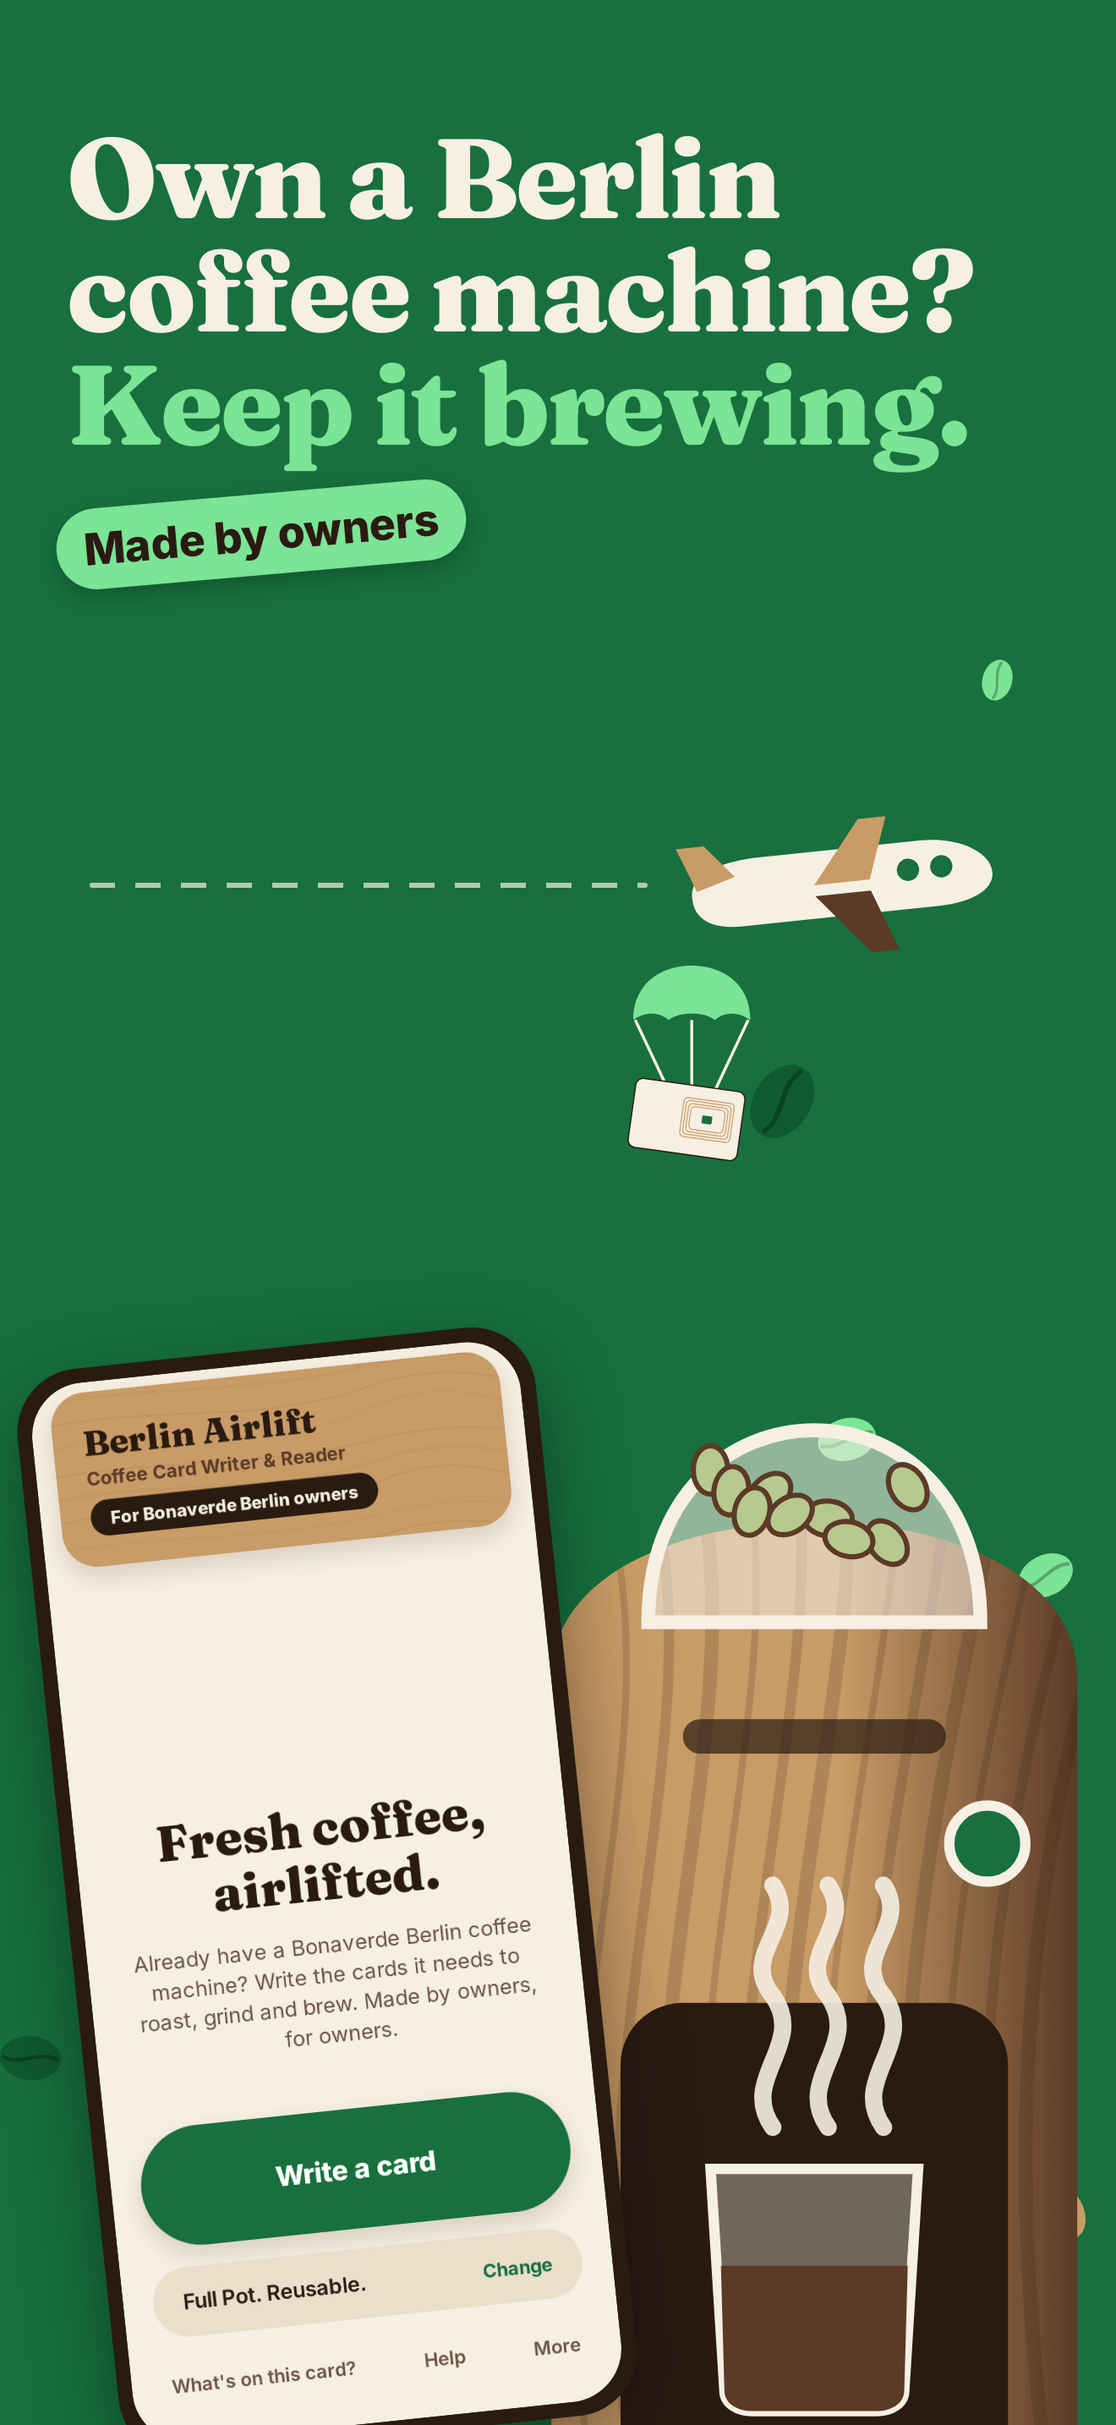
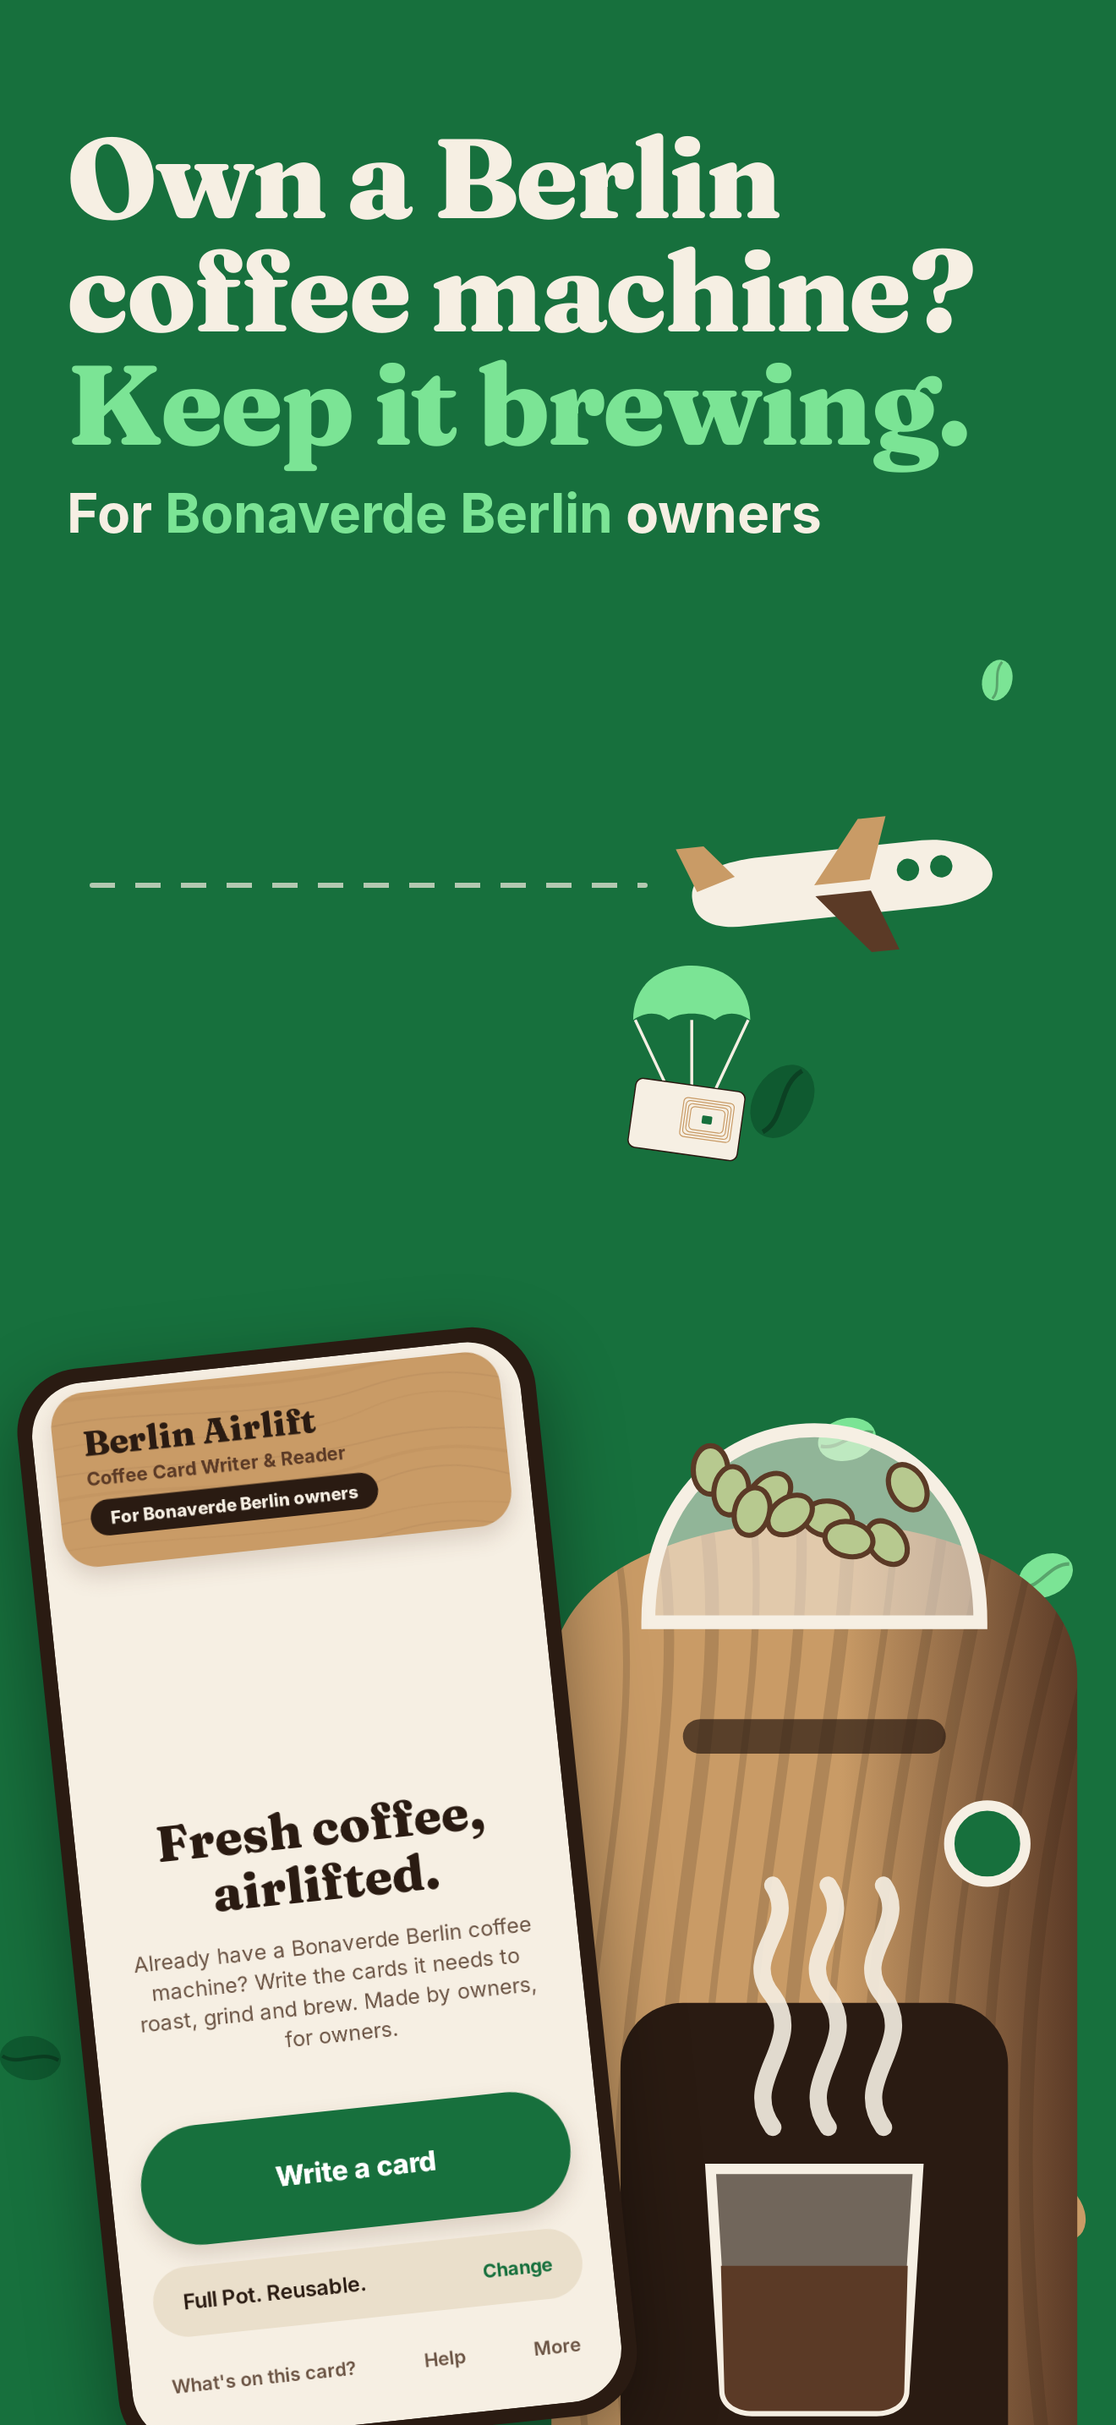
Store frames: brand under frame 1 headline, card frame sells the payoff; which-card picture in Help
Frame 1 keeps the headline brand-free and names Bonaverde Berlin on a smaller line under it.
Frame 4 is now buy a card online, program it, ready to use. The which-card visual with its
works and won't-work list moves into the app's Help sheet.

Changed region(s): [[0.0311, 0.1862, 0.7455, 0.2483]]

diff --git a/app/src/ui/WhichCard.tsx b/app/src/ui/WhichCard.tsx
@@ -1,0 +1,68 @@
+import React from 'react';
+import { StyleSheet, Text, View } from 'react-native';
+import Svg, { Rect } from 'react-native-svg';
+import { CARD_TO_BUY } from '../content/help';
+import { color, radius, space } from './tokens';
+
+/** The card's antenna coil, drawn small on the right of the card. */
+function Coil() {
+  return (
+    <Svg width={84} height={84} viewBox="0 0 84 84" accessibilityElementsHidden importantForAccessibility="no-hide-descendants">
+      {[0, 1, 2, 3].map((i) => (
+        <Rect key={i} x={4 + i * 9} y={4 + i * 9} width={76 - i * 18} height={76 - i * 18} rx={12} fill="none" stroke={color.oak} strokeWidth={3} />
+      ))}
+    </Svg>
+  );
+}
+
+const ROWS: { ok: boolean; label: string }[] = [
+  { ok: true, label: CARD_TO_BUY.name },
+  { ok: false, label: 'NTAG cards' },
+  { ok: false, label: 'MIFARE Classic' },
+  { ok: false, label: 'A plain "NFC card"' },
+];
+
+/** The card to buy, drawn as a card, with a quick yes and no list under it. */
+export function WhichCard() {
+  return (
+    <View style={styles.wrap}>
+      <View style={styles.card} accessible accessibilityLabel={`The card to buy: ${CARD_TO_BUY.name}, chip ${CARD_TO_BUY.part}, 13.56 megahertz.`}>
+        <View style={{ flex: 1, gap: 2 }}>
+          <Text style={styles.label}>The one to buy</Text>
+          <Text style={styles.big}>MIFARE</Text>
+          <Text style={styles.mid}>Ultralight EV1</Text>
+          <Text style={styles.small}>{CARD_TO_BUY.part} · 13.56 MHz</Text>
+        </View>
+        <Coil />
+      </View>
+      <View style={styles.rows}>
+        {ROWS.map((r) => (
+          <View key={r.label} style={styles.row} accessible accessibilityLabel={`${r.ok ? 'Works' : 'Will not work'}: ${r.label}`}>
+            <View style={[styles.mark, { backgroundColor: r.ok ? color.verde : color.ember }]}>
+              <Text style={styles.markText}>{r.ok ? '✓' : '✕'}</Text>
+            </View>
+            <Text style={styles.rowText}>{r.label}</Text>
+          </View>
+        ))}
+      </View>
+    </View>
+  );
+}
+
+const styles = StyleSheet.create({
+  wrap: { gap: space.m },
+  card: {
+    flexDirection: 'row', alignItems: 'center', gap: space.m,
+    backgroundColor: color.cream, borderRadius: radius.chip, borderWidth: 3, borderColor: color.espresso,
+    padding: space.m, transform: [{ rotate: '-2deg' }],
+  },
+  label: { fontSize: 13, fontWeight: '800', color: color.verde, textTransform: 'uppercase', letterSpacing: 0.8 },
+  big: { fontFamily: 'Fraunces_800ExtraBold', fontSize: 30, lineHeight: 32, color: color.espresso },
+  mid: { fontFamily: 'Fraunces_800ExtraBold', fontSize: 22, lineHeight: 26, color: color.espresso },
+  small: { fontSize: 13, fontWeight: '700', color: color.walnut },
+  rows: { gap: space.s },
+  row: { flexDirection: 'row', alignItems: 'center', gap: space.s },
+  mark: { width: 26, height: 26, borderRadius: 13, alignItems: 'center', justifyContent: 'center' },
+  markText: { color: color.cream, fontWeight: '800', fontSize: 15 },
+  rowText: { fontSize: 16, fontWeight: '700', color: color.espresso, flexShrink: 1 },
+});

diff --git a/app/src/screens/HelpSheet.tsx b/app/src/screens/HelpSheet.tsx
@@ -5,6 +5,7 @@ import { PressScale } from '../ui/Pressable';
 import { Sheet } from '../ui/Sheet';
 import { color, radius, space, type } from '../ui/tokens';
 import { TRADEMARK_NOTICE } from '../content/about';
+import { WhichCard } from '../ui/WhichCard';
 
 /** Plain answers, most-asked first. The card to buy is pinned at the top. */
 export function HelpSheet({ visible, onClose }: { visible: boolean; onClose: () => void }) {
@@ -12,10 +13,9 @@ export function HelpSheet({ visible, onClose }: { visible: boolean; onClose: () 
   return (
     <Sheet visible={visible} title="Help" onClose={onClose}>
       <View style={styles.buy}>
-        <Text style={styles.buyLabel}>The card to buy</Text>
-        <Text style={type.title}>{CARD_TO_BUY.name}</Text>
-        <Text style={type.secondary}>Chip {CARD_TO_BUY.part}. 13.56 MHz. 48 bytes of memory.</Text>
-        <Text style={[type.body, { marginTop: space.s }]}>Search for “{CARD_TO_BUY.search[0]}”.</Text>
+        <WhichCard />
+        <Text style={[type.secondary, { marginTop: space.s }]}>Chip {CARD_TO_BUY.part}. 13.56 MHz. 48 bytes of memory.</Text>
+        <Text style={type.body}>Search for “{CARD_TO_BUY.search[0]}”.</Text>
       </View>
 
       {HELP.map((t, i) => {
@@ -50,7 +50,6 @@ export function HelpSheet({ visible, onClose }: { visible: boolean; onClose: () 
 
 const styles = StyleSheet.create({
   buy: { backgroundColor: color.paper, borderRadius: radius.card, padding: space.l, gap: space.xs, marginBottom: space.m, borderLeftWidth: 6, borderLeftColor: color.verde },
-  buyLabel: { fontSize: 13, fontWeight: '700', color: color.verde, textTransform: 'uppercase', letterSpacing: 0.8 },
   item: { borderBottomWidth: StyleSheet.hairlineWidth, borderBottomColor: color.oak },
   q: { minHeight: 56, flexDirection: 'row', alignItems: 'center', justifyContent: 'space-between', gap: space.m },
   qText: { fontSize: 17, fontWeight: '700', color: color.espresso, flexShrink: 1 },

diff --git a/app/src/screens/__tests__/help.test.tsx b/app/src/screens/__tests__/help.test.tsx
@@ -13,6 +13,8 @@ it('names the exact card to buy and the look-alikes to avoid', async () => {
   );
   expect(screen.getByText('MIFARE Ultralight EV1')).toBeTruthy();
   expect(screen.getByText(/Chip MF0UL11/)).toBeTruthy();
+  expect(screen.getByLabelText('Works: MIFARE Ultralight EV1')).toBeTruthy();
+  expect(screen.getByLabelText('Will not work: NTAG cards')).toBeTruthy();
   await fireEvent.press(screen.getByText('Which cards look right but are wrong?'));
   expect(screen.getByText(/NTAG213, NTAG215, NTAG216/)).toBeTruthy();
   expect(screen.getByText(/MIFARE Classic 1K/)).toBeTruthy();

diff --git a/tools/store-screenshots/compose.py b/tools/store-screenshots/compose.py
@@ -1,16 +1,15 @@
 """Store frames, round 2: one owner job per frame, each with its own layout.
 
-python3 -I compose.py <work dir with cap/> <fraunces font dir> <out dir> [--variant-b]
+python3 -I compose.py <work dir with cap/> <fraunces font dir> <out dir>
 
-Frame 1 has two headline variants. A names no brand ("Own a Berlin coffee machine?").
-B names the machine in full ("Own a Bonaverde Berlin?"), which is clearer in search but
-puts a third-party brand in the image. The default render is A; --variant-b writes B too.
+Frame 1 names the machine in full ("For Bonaverde Berlin owners") on a line under the
+headline, never in the headline itself, so searchers know who it is for without a
+third-party brand taking over the image.
 """
 import sys, asyncio, random
 from playwright.async_api import async_playwright
 
 S, F, OUT = sys.argv[1], sys.argv[2], sys.argv[3]
-VARIANT_B = '--variant-b' in sys.argv
 C = S + '/cap/'
 VERDE, DEEP, POP, CREAM, PAPER, OAK, WALNUT, ESP, NIGHT, GREY = '#17703D', '#0F5A30', '#7BE495', '#F6EFE3', '#EADFCB', '#C99B66', '#5B3A26', '#2A1B12', '#0B2A1C', '#8C8A86'
 
@@ -52,6 +51,11 @@ CHUTE = f'''<svg viewBox="0 0 64 70"><path d="M4 28 C 4 10, 18 2, 32 2 C 46 2, 6
 CHERRIES = ''.join(f'<circle cx="{x}" cy="{y}" r="{r}" fill="{c}"/>' for x, y, r, c in [(60, 150, 22, '#B3261E'), (98, 140, 20, '#C9412F'), (80, 182, 21, '#8E1B16'), (196, 92, 18, '#B3261E'), (226, 70, 19, POP), (250, 96, 17, '#9BD77A')])
 BRANCH = f'''<svg viewBox="0 0 300 220"><path d="M10 200 C 80 160, 160 140, 290 40" stroke="{WALNUT}" stroke-width="8" fill="none" stroke-linecap="round"/>
 <path d="M150 130 C 170 190, 240 200, 270 170 C 240 140, 190 120, 150 130 Z" fill="{VERDE}"/><path d="M120 150 C 100 100, 40 70, 10 90 C 40 130, 80 155, 120 150 Z" fill="{DEEP}"/>{CHERRIES}</svg>'''
+
+BOX = f'''<svg viewBox="0 0 260 220"><path d="M20 70 L130 100 L240 70 L240 190 L130 218 L20 190 Z" fill="#B98A57"/>
+<path d="M130 100 L240 70 L240 190 L130 218 Z" fill="#A3774A"/><path d="M20 70 L130 100 L130 218 L20 190 Z" fill="#C99B66"/>
+<path d="M20 70 L-4 34 L104 62 L130 100 Z" fill="#D9B485"/><path d="M240 70 L264 34 L156 62 L130 100 Z" fill="#B98A57"/>
+<rect x="44" y="120" width="62" height="14" rx="3" fill="{CREAM}" opacity=".85" transform="rotate(14 75 127)"/></svg>'''
 
 def bean(x, y, s, r, c):
     return f'<svg class="bean" style="left:{x}px;top:{y}px;width:{s}px;height:{s*1.35}px;transform:rotate({r}deg)" viewBox="0 0 40 54"><ellipse cx="20" cy="27" rx="18" ry="25" fill="{c}"/><path d="M20 4 C 12 18, 28 34, 20 50" stroke="rgba(0,0,0,.28)" stroke-width="3" fill="none"/></svg>'
@@ -104,11 +108,11 @@ def beans(rnd, W, H, n, cols, y0=0.0, y1=1.0, u=1.0):
 
 # ---------- the eight jobs ----------
 
-def f1_owner(W, H, b=False):
+def f1_owner(W, H):
     """Job: 'I own this machine, will this keep it going?' Airdrop onto the machine."""
     u, tall = W / 1320, H / W > 2
     rnd = random.Random(1)
-    l1, l2 = ('Own a Bonaverde', 'Berlin?') if b else ('Own a Berlin', 'coffee machine?')
+    l1, l2 = ('Own a Berlin', 'coffee machine?')
     lines = (f'{l1}<br>{l2}', 'Keep it brewing.')
     hs = fit((l1, l2, 'Keep it brewing.'), 175 * u, W)
     mw = W * (0.62 if tall else 0.44)
@@ -123,7 +127,7 @@ def f1_owner(W, H, b=False):
     body += svgbox(card(False), W*0.565, top + W*0.24, W*0.10, 8)
     body += svgbox(machine('m1'), W*0.42, my, mw)
     body += phone('home', W*0.06, my + mw*0.12, pw, -6)
-    body += sticker('Made by owners', W*0.05, H*0.05 + hs*3.3, 52*u, POP, ESP, -5)
+    body += f'<div class="body abs" style="left:{W*0.06}px;top:{H*0.05 + hs*3.18}px;font-size:{64*u}px;color:{CREAM}">For <b style="color:{POP}">Bonaverde Berlin</b> owners</div>'
     return wrap(W, H, VERDE, body)
 
 def f2_again(W, H):
@@ -165,24 +169,38 @@ def f3_tap(W, H):
     return wrap(W, H, POP, body)
 
 def f4_card(W, H):
-    """Job: 'which card do I even buy?' Card close-up and a checklist, no phone."""
+    """Job: 'where do I get cards now?' Buy one online, program it, it's ready."""
     u, tall = W / 1320, H / W > 2
-    hs = fit(('Know exactly', 'which card to buy.'), 150 * u, W)
-    body = head(('Know exactly', 'which card to buy.'), W*0.06, H*0.05, hs, ESP, VERDE, W*0.92)
-    cw = W * (0.90 if tall else 0.70)
-    cy = H*0.05 + hs*2.4
-    body += svgbox(card(True), (W - cw)/2, cy, cw, -5, 'filter:drop-shadow(0 30px 40px rgba(0,0,0,.28))')
-    rows = [('✓', 'MIFARE Ultralight EV1', VERDE), ('✕', 'NTAG cards', '#B3261E'), ('✕', 'MIFARE Classic', '#B3261E'), ('✕', 'A plain "NFC card"', '#B3261E')]
-    ry = cy + cw * 210 / 330 + H * 0.05
-    fs = 92 * u if tall else 58 * u
-    for i, (m, t, c) in enumerate(rows):
-        y = ry + i * fs * 1.9
-        body += f'<div class="body abs" style="left:{W*0.10}px;top:{y}px;font-size:{fs}px;color:{ESP};display:flex;align-items:center;gap:{fs*0.5}px"><span style="display:inline-flex;width:{fs*1.3}px;height:{fs*1.3}px;border-radius:50%;background:{c};color:{CREAM};align-items:center;justify-content:center">{m}</span>{t}</div>'
-    body += sticker('Cards or stickers', W*0.58, cy - 40*u, 50*u, OAK, ESP, 6)
+    lines = ('Buy a card online.', 'Program it. Brew.')
+    hs = fit(lines, 150 * u, W)
+    body = f'<div class="abs" style="left:{W*0.35}px;top:{H*0.30}px;width:{W*1.1}px;height:{W*1.1}px;border-radius:50%;background:{POP};opacity:.35"></div>'
+    body += head(lines, W*0.06, H*0.05, hs, ESP, VERDE, W*0.92)
+    top = H*0.05 + hs*2.6
+    bw = W * (0.46 if tall else 0.30)
+    body += svgbox(BOX, W*0.05, top + H*0.02, bw, -4)
+    for k in range(3):
+        body += svgbox(card(False), W*0.10 + k*bw*0.16, top - bw*0.02 + k*bw*0.03, bw*0.46, -20 + k*12, 'z-index:2')
+    body += sticker('Ships blank', W*0.06, top + bw*0.90, 48*u, OAK, ESP, -4)
+    cw = W * (0.70 if tall else 0.50)
+    cy = top + bw * (1.55 if tall else 1.05)
+    cx = W*0.06
+    ch = cw * 210 / 330
+    rot = -7
+    body += svgbox(card(False), cx, cy, cw, rot, 'filter:drop-shadow(0 30px 40px rgba(0,0,0,.28));z-index:3')
+    pw = W * (0.52 if tall else 0.31)
+    px, py = (W*0.56, cy - W*0.50) if tall else (W*0.54, cy - H*0.10)
+    body += phone('drink', px, py, pw, 9)
+    # tap rings centred on the card's chip (225, 98 in the card's 330 x 210 box), after the card's rotation
+    import math
+    dx, dy = (225/330 - 0.5) * cw, (98/210 - 0.5) * ch
+    a = math.radians(rot)
+    tx = cx + cw/2 + dx*math.cos(a) - dy*math.sin(a)
+    ty = cy + ch/2 + dx*math.sin(a) + dy*math.cos(a)
+    for k, r in enumerate((60, 110, 160)):
+        body += f'<div class="abs" style="z-index:6;left:{tx - r*u}px;top:{ty - r*u}px;width:{2*r*u}px;height:{2*r*u}px;border-radius:50%;border:{8*u}px solid {VERDE};opacity:{0.7 - k*0.2}"></div>'
     if tall:
-        body += breakout('help', (10, 190, 383, 440), W*0.08, ry + 4*fs*1.9 + H*0.02, W*0.84, 2, VERDE, 40*u)
-    else:
-        body += f'<div class="body abs" style="left:{W*0.10}px;top:{H*0.95 - 46*u}px;font-size:{40*u}px;color:{WALNUT}">Help in the app says what to search for.</div>'
+        body += beans(random.Random(4), W, H, 7, [VERDE, OAK, DEEP], 0.84, 0.97, u)
+    body += sticker('✓ Ready to use', cx + cw*0.02, cy + ch + (H*0.05 if tall else H*0.03), 70*u, VERDE, CREAM, -3)
     return wrap(W, H, CREAM, body)
 
 def f5_night(W, H):
@@ -255,7 +273,8 @@ FRAMES = [f1_owner, f2_again, f3_tap, f4_card, f5_night, f6_copy, f7_growers, f8
 
 def feature(W=1024, H=500):
     body = f'<div class="hl abs" style="left:56px;top:110px;font-size:80px;color:{CREAM}">Own a Berlin?<span style="color:{POP}">Keep it brewing.</span></div>'
-    body += sticker('Coffee card writer and reader', 60, 310, 28, ESP, CREAM, -2)
+    body += f'<div class="body abs" style="left:60px;top:290px;font-size:30px;color:{CREAM}">For <b style="color:{POP}">Bonaverde Berlin</b> owners</div>'
+    body += sticker('Coffee card writer and reader', 60, 350, 28, ESP, CREAM, -2)
     body += svgbox(PLANE, 640, 30, 200, -6) + svgbox(CHUTE, 640, 100, 64) + svgbox(card(False), 642, 160, 56, 8)
     body += svgbox(machine('fg'), 800, 150, 190)
     return wrap(W, H, VERDE, body)
@@ -273,8 +292,6 @@ async def main():
             await pg.set_viewport_size({'width': W, 'height': H})
             for i, fn in enumerate(FRAMES):
                 await shot(fn(W, H), f'{OUT}/{store}/{i+1:02d}-{W}x{H}.png')
-            if VARIANT_B:
-                await shot(f1_owner(W, H, True), f'{OUT}/{store}/01b-{W}x{H}.png')
         await pg.set_viewport_size({'width': 1024, 'height': 500})
         await shot(feature(), f'{OUT}/google/feature-graphic-1024x500.png')
         await b.close()

diff --git a/store/README.md b/store/README.md
@@ -60,16 +60,16 @@ Each frame sells one job an owner has, with its own layout:
 
 | # | Headline | The job | Layout |
 |---|---|---|---|
-| 1 | Own a Berlin coffee machine? Keep it brewing. | Will this keep my machine going? | Airdrop onto the machine, home screen |
+| 1 | Own a Berlin coffee machine? Keep it brewing. ("For Bonaverde Berlin owners" under it) | Will this keep my machine going? | Airdrop onto the machine, home screen |
 | 2 | Out of cards? Brewing again. | My cards ran out and the company is gone | Before and after split |
 | 3 | Your usual pot. One tap. | Make my pot without thinking | Straight phone, giant button with tap rings |
-| 4 | Know exactly which card to buy. | Which blank card works? | Card close-up and a checklist |
+| 4 | Buy a card online. Program it. Brew. | Where do I get cards now? | Box of blank cards, one card tapped on the phone, Ready to use |
 | 5 | Roast tonight. Wake up to coffee. | Coffee ready when I wake up | Night into sunrise |
 | 6 | Down to your last card? Copy it. | Save my last original card | One card in, copies out |
 | 7 | Roasted fresh. Grown with care. | Love for the coffee and its growers | Woodgrain, type first |
 | 8 | No account. No ads. No tracking. Just coffee. | Is there a catch? | Stacked manifesto, phone peeking in |
 
-`store/screenshots/alternates/` holds frame 1 with the machine named in full ("Own a Bonaverde Berlin?"). It is clearer in search but puts a third-party brand in the image; pick one before upload.
+The brand is named once, under the frame 1 headline, never in a headline. The exact card to buy (with what not to buy) lives in the app's Help, not in the store images.
 
 ## Release checklist
 

diff --git a/tools/store-screenshots/README.md b/tools/store-screenshots/README.md
@@ -13,7 +13,7 @@ mkdir -p $W/preview $W/cap
 python3 -I tools/store-screenshots/build_preview.py $W
 python3 -I tools/store-screenshots/capture.py $W          # screens at 393x852 @3x
 python3 -I tools/store-screenshots/capture_pause.py $W    # drink sheet scrolled to the pause
-python3 -I tools/store-screenshots/compose.py $W app/node_modules/@expo-google-fonts/fraunces store/screenshots --variant-b
+python3 -I tools/store-screenshots/compose.py $W app/node_modules/@expo-google-fonts/fraunces store/screenshots
 ```
 
 Rules the frames follow:
@@ -24,4 +24,5 @@ Rules the frames follow:
 - Frame 1 says who the app is for. This app only helps people who own the machine.
 - Real app screens only, nothing drawn inside a screen. Drawings (machine, cards, plane) sit outside screens.
 - No price words in headlines, no em dashes.
-- `--variant-b` also writes frame 1 with the machine named in full, to `01b-*` files.
+- Name a third-party brand only in a smaller line under a headline, never in the headline itself.
+- Sell the payoff, not the instructions: detail like which card to buy belongs in the app's Help.
